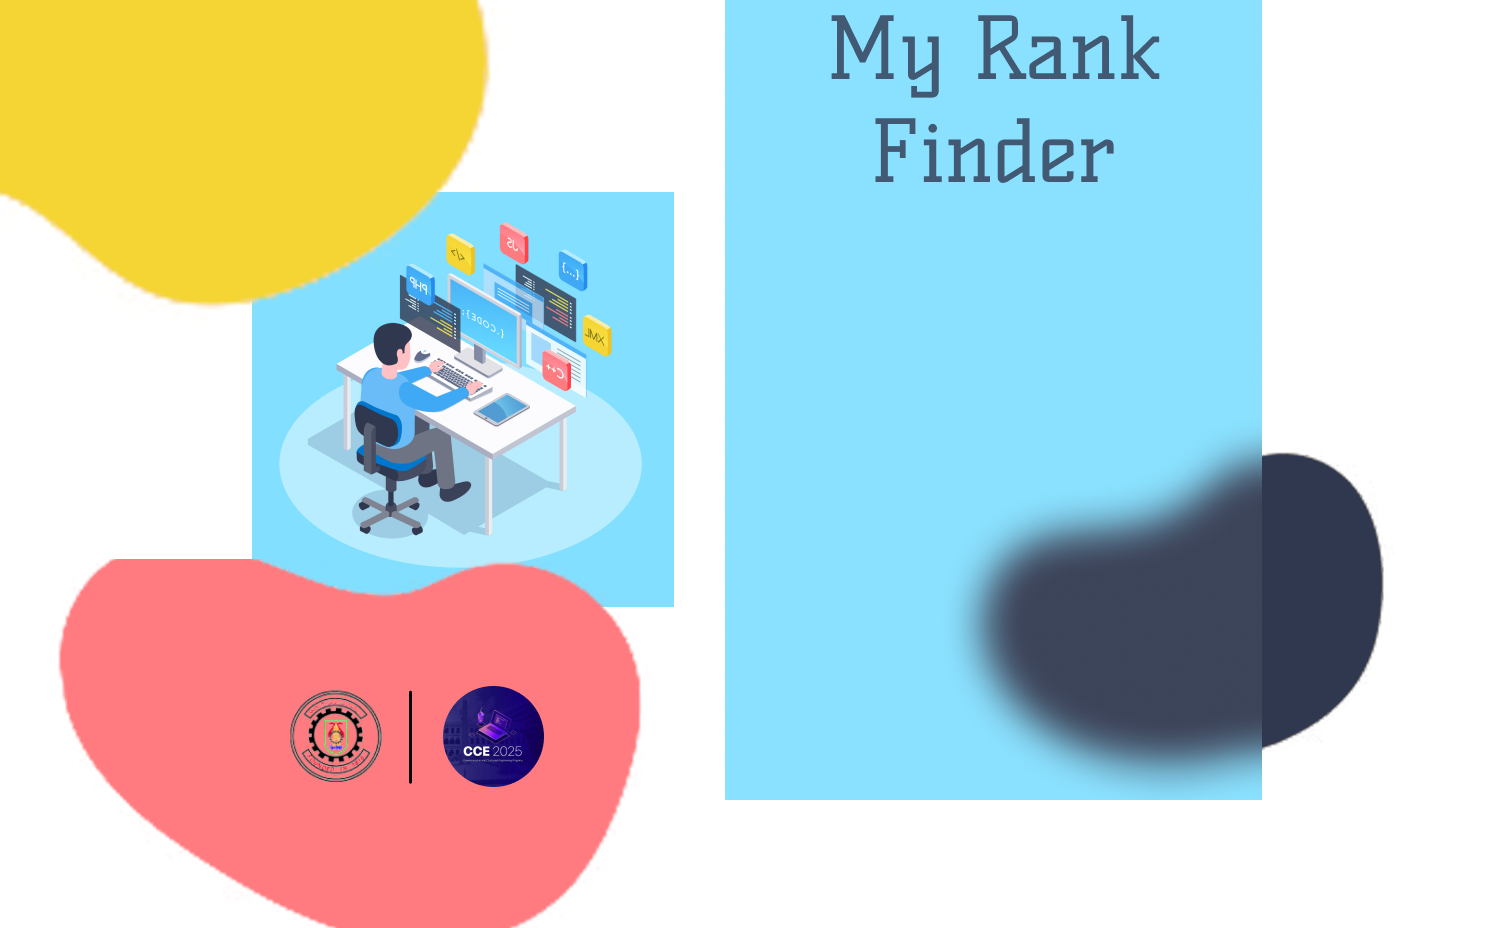
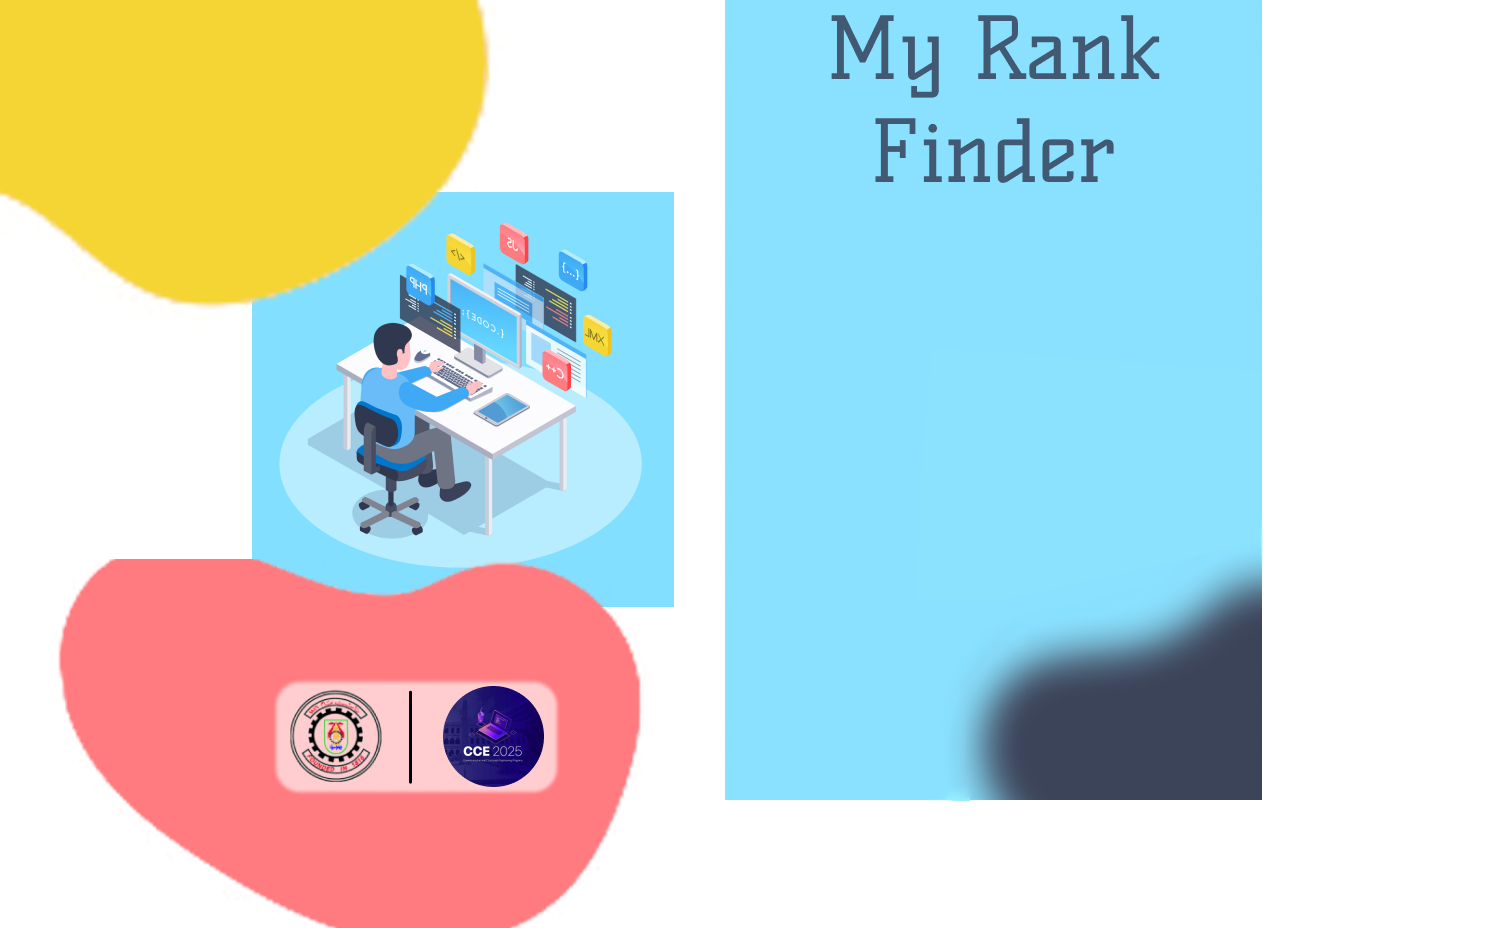
Version with GUI updated
Refined some Labels

Changed region(s): [[0.6479, 0.4688, 0.9256, 0.875], [0.1851, 0.7188, 0.4011, 0.875]]

diff --git a/Test_App.py b/Test_App.py
@@ -30,23 +30,23 @@ def btn_clicked():
         if array[count][0] == x:
             check = True
             if count == 11 or count == 12 or count == 13:
-                result.config(text = f'Congratulations you are the {count}th!')
+                canvas.itemconfig(result, text = f'Congratulations you are the {count}th!')
             elif count%10 == 1:
-                result.config(text = f'Congratulations you are the {count}st!')
+                canvas.itemconfig(result, text = f'Congratulations you are the {count}st!')
             elif count%10 == 2:
-                result.config(text = f'Congratulations you are the {count}nd!')
+                canvas.itemconfig(result, text = f'Congratulations you are the {count}nd!')
             elif count%10 == 3:
-                result.config(text = f'Congratulations you are the {count}rd!')
+                canvas.itemconfig(result, text = f'Congratulations you are the {count}rd!')
             else:
-                result.config(text = f'Congratulations you are the {count}th!')
+                canvas.itemconfig(result, text = f'Congratulations you are the {count}th!')
             break;
         count += 1
     if check == False:
-        result.config(text = "Please Fill the Form and Try Again")
+        canvas.itemconfig(result, text = "Please Fill the Form and Try Again")
     count_c = wks.get('D2')
     count_e = wks.get('D3')
-    track_c.config(text = f'Track C (Computer) = {count_c[0][0]}')
-    track_e.config(text = f'Track E (Communication) = {count_e[0][0]}')
+    canvas.itemconfig(track_c, text = f'Track C (Computer) = {count_c[0][0]}')
+    canvas.itemconfig(track_e, text = f'Track E (Communication) = {count_e[0][0]}')
 
 canvas = Canvas(
     window,
@@ -64,8 +64,30 @@ background = canvas.create_image(
     image=background_img)
 
 canvas.create_text(
-    694.0, 270.0,
-    text = "GPA",
+    750.0, 250.0,
+    text = "Enter your GPA (/4.00)",
+    fill = "#415973",
+    font = ("KellySlab-Regular", int(24.0)))
+
+entry0_img = PhotoImage(file = f"img_textBox0.png")
+entry0_bg = canvas.create_image(
+    694.0, 312.0,
+    image = entry0_img)
+
+result = canvas.create_text(
+    750.0, 400.0,
+    text = "",
+    fill = "#415973",
+    font = ("KellySlab-Regular", int(24.0)))
+
+track_c = canvas.create_text(
+    750.0, 500.0,
+    text = "Statistics will Load",
+    fill = "#415973",
+    font = ("KellySlab-Regular", int(24.0))) 
+track_e = canvas.create_text(
+    752.0, 550.0,
+    text = "when you Submit...",
     fill = "#415973",
     font = ("KellySlab-Regular", int(24.0)))
 
@@ -75,12 +97,10 @@ entry0_bg = canvas.create_image(
     image = entry0_img)
 
 entry0 = Entry(window, textvariable = gpa_var, bd = 0, bg = "#ffffff", highlightthickness = 0)
-result = Label(window, text = "", font = ("KellySlab-Regular", int(24.0)), bg = '#82DFFF')
-track_c = Label(window, text = "Statistics will Load", font = ("KellySlab-Regular", int(24.0)), bg = '#82DFFF')
-track_e = Label(window, text = "when you Submit...", font = ("KellySlab-Regular", int(24.0)), bg = '#82DFFF')
-result.place(x = 500.0, y = 400)
-track_c.place(x = 500.0, y = 500)
-track_e.place(x=500.0, y = 550)
+#track_c = Label(window, text = "Statistics will Load", font = ("KellySlab-Regular", int(24.0)), bg = '#82DFFF')
+#track_e = Label(window, text = "when you Submit...", font = ("KellySlab-Regular", int(24.0)), bg = '#82DFFF')
+#track_c.place(x = 500.0, y = 500)
+#track_e.place(x=500.0, y = 550)
 entry0.place(
     x = 561.0, y = 289,
     width = 266.0,
